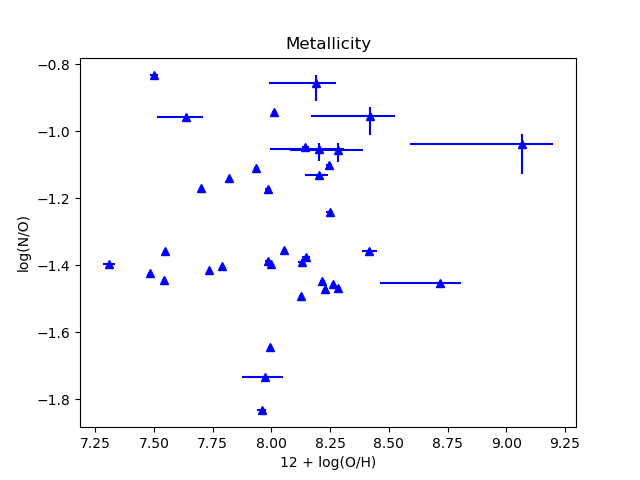
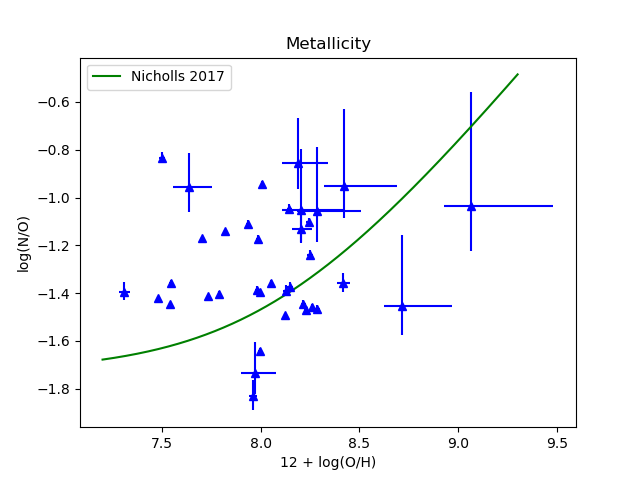
Updated abundance & temp errors, reorganised code into functions, added SFRvM* plot with fit from CLASSY I

diff --git a/CLASSY/Abundances/IonAbundances.py b/CLASSY/Abundances/IonAbundances.py
@@ -8,11 +8,11 @@ def nicholls(metallicity):
     a = -1.732
     b = 2.19
 
-    ratio = np.log10(10 ** a + 10 ** (metallicity - 12 + b))
+    ratio = np.log10(10 ** a + 10 ** (metallicity -12 + b))
     return ratio
 
 def main():
-    filepath = r"C:\Users\drcla\OneDrive\Senior Honours Project\Abundances\Final_CLASSY_EMISSION_LINES_David.xlsx"
+    filepath = r"C:\Users\drcla\OneDrive\Senior Honours Project\CLASSY\Final_CLASSY_EMISSION_LINES_David.xlsx"
 
     O2 = pn.Atom("O", 2)
     O3 = pn.Atom("O", 3)
@@ -99,25 +99,26 @@ def main():
     log_n_o = np.log10(n_o)
 
     #Errors
-    err_filepath = r"C:\Users\drcla\OneDrive\Senior Honours Project\Abundances\Abundanceswerrors.csv"
+    err_filepath = r"C:\Users\drcla\OneDrive\Senior Honours Project\CLASSY\Abundances\Abundanceswerrors.csv"
     metallicity_upper = pd.read_csv(err_filepath, delimiter = ",", usecols = [0], header = 0).to_numpy().flatten()
     metallicity_lower = pd.read_csv(err_filepath, delimiter = ",", usecols = [1], header = 0).to_numpy().flatten()
     abund_ratio_upper = pd.read_csv(err_filepath, delimiter = ",", usecols = [2], header = 0).to_numpy().flatten()
     abund_ratio_lower = pd.read_csv(err_filepath, delimiter = ",", usecols = [3], header = 0).to_numpy().flatten()
 
     #stack
-    met_err = np.stack((metallicity_upper, metallicity_lower), axis = 0)
-    ratio_err = np.stack((abund_ratio_upper, abund_ratio_lower), axis = 0) #N/O
+    met_err = np.stack((metallicity_lower, metallicity_upper), axis = 0)
+    ratio_err = np.stack((abund_ratio_lower, abund_ratio_upper), axis = 0) #N/O
 
     x_nicholls = np.linspace(7.2, 9.3, 1000)
     y_nicholls = nicholls(x_nicholls)
 
     #Plot to compare to classy xii fig 2
     plt.errorbar(metallicity[0:45], log_n_o[0:45], yerr = ratio_err, xerr = met_err, linestyle = "", marker = "^", color = "b")
-    plt.plot(x_nicholls, y_nicholls, color = "green")
+    plt.plot(x_nicholls, y_nicholls, color = "green", label = "Nicholls 2017")
     plt.xlabel("12 + log(O/H)")
     plt.ylabel("log(N/O)")
     plt.title("Metallicity")
+    plt.legend()
     plt.savefig("Metallicity")
     plt.show()
 

diff --git a/CLASSY/Abundances/StellarMassMetallicity.py b/CLASSY/Abundances/StellarMassMetallicity.py
@@ -3,8 +3,8 @@ import numpy as np
 import matplotlib.pyplot as plt
 
 def main():
-    filepathion = r"C:\Users\drcla\OneDrive\Senior Honours Project\Abundances\IonAbundances.csv"
-    filepathmass = r"C:\Users\drcla\OneDrive\Senior Honours Project\Abundances\classy_sample_prop.csv"
+    filepathion = r"C:\Users\drcla\OneDrive\Senior Honours Project\CLASSY\Abundances\IonAbundances.csv"
+    filepathmass = r"C:\Users\drcla\OneDrive\Senior Honours Project\CLASSY\Abundances\classy_sample_prop.csv"
 
     stellar_mass = pd.read_csv(filepathmass, delimiter = ",", usecols = [6], header = 0).to_numpy().flatten()
     metallicity = pd.read_csv(filepathion, delimiter = ",", usecols = [0], header = 0).to_numpy().flatten()
@@ -13,14 +13,14 @@ def main():
     metallicity = metallicity[0:len(stellar_mass)]
 
     #Errors
-    err_filepath = r"C:\Users\drcla\OneDrive\Senior Honours Project\Abundances\Abundanceswerrors.csv"
-    abund_ratio_upper = pd.read_csv(err_filepath, delimiter = ",", usecols = [2], header = 0).to_numpy().flatten()
-    abund_ratio_lower = pd.read_csv(err_filepath, delimiter = ",", usecols = [3], header = 0).to_numpy().flatten()
-    abund_err = np.stack((abund_ratio_upper, abund_ratio_lower), axis = 0) #N/O
+    err_filepath = r"C:\Users\drcla\OneDrive\Senior Honours Project\CLASSY\Abundances\Abundanceswerrors.csv"
+    abund_ratio_upper = pd.read_csv(err_filepath, delimiter = ",", usecols = [0], header = 0).to_numpy().flatten()
+    abund_ratio_lower = pd.read_csv(err_filepath, delimiter = ",", usecols = [1], header = 0).to_numpy().flatten()
+    abund_err = np.stack((abund_ratio_lower, abund_ratio_upper), axis = 0) #12 + log(O/H)
 
     #Plot
     plt.errorbar(stellar_mass, metallicity, yerr = abund_err, ls = "", marker = "s", color = "red")
-    plt.axline(xy1 = (0, 6.4), slope = 0.2, color = "green", label = "12+log(O/H) = 0.2M*+6.4")
+    plt.axline(xy1 = (0, 6.4), slope = 0.2, color = "green", label = "12+log(O/H) = 0.2M*+6.4 \n Berg 2022")
     plt.xlabel(r"$log_{10}$ of total stellar mass in galaxy ($M_{\odot}$)")
     plt.ylabel(r"12 + $log_{10}(O/H)$")
     plt.xlim(5, 11)

diff --git a/CLASSY/Abundances/SFRMetallicity.py b/CLASSY/Abundances/SFRMetallicity.py
@@ -2,10 +2,9 @@ import pandas as pd
 import numpy as np
 import matplotlib.pyplot as plt
 
-def nicholls()
 def main():
-    filepathion = r"C:\Users\drcla\OneDrive\Senior Honours Project\Abundances\IonAbundances.csv"
-    filepathmass = r"C:\Users\drcla\OneDrive\Senior Honours Project\Abundances\classy_sample_prop.csv"
+    filepathion = r"C:\Users\drcla\OneDrive\Senior Honours Project\CLASSY\Abundances\IonAbundances.csv"
+    filepathmass = r"C:\Users\drcla\OneDrive\Senior Honours Project\CLASSY\Abundances\classy_sample_prop.csv"
 
     sfr = pd.read_csv(filepathmass, delimiter = ",", usecols = [7], header = 0).to_numpy().flatten()
     metallicity = pd.read_csv(filepathion, delimiter = ",", usecols = [0], header = 0).to_numpy().flatten()
@@ -14,10 +13,10 @@ def main():
     metallicity = metallicity[0:len(sfr)]
 
     #Errors
-    err_filepath = r"C:\Users\drcla\OneDrive\Senior Honours Project\Abundances\Abundanceswerrors.csv"
-    abund_ratio_upper = pd.read_csv(err_filepath, delimiter = ",", usecols = [2], header = 0).to_numpy().flatten()
-    abund_ratio_lower = pd.read_csv(err_filepath, delimiter = ",", usecols = [3], header = 0).to_numpy().flatten()
-    abund_err = np.stack((abund_ratio_upper, abund_ratio_lower), axis = 0) #N/O
+    err_filepath = r"C:\Users\drcla\OneDrive\Senior Honours Project\CLASSY\Abundances\Abundanceswerrors.csv"
+    abund_ratio_upper = pd.read_csv(err_filepath, delimiter = ",", usecols = [0], header = 0).to_numpy().flatten()
+    abund_ratio_lower = pd.read_csv(err_filepath, delimiter = ",", usecols = [1], header = 0).to_numpy().flatten()
+    abund_err = np.stack((abund_ratio_lower, abund_ratio_upper), axis = 0) #12 + log(O/H)
 
     #Plot
     plt.errorbar(sfr, metallicity, yerr = abund_err, ls = "", marker = "*", color = "green")

diff --git a/CLASSY/Diagnostics/TempDiagnostics.py b/CLASSY/Diagnostics/TempDiagnostics.py
@@ -8,7 +8,7 @@ def extract_and_plot():
       """Extracts necessary emission lines, use getCrossTemDen to calculate T_e in low and high-
       ionisation regions and plot them together, optionally including expanded T_e datasets for galaxies
       without necessary emission lines using Garnett's 1992 formula"""
-      filepath = r"C:\Users\drcla\OneDrive\Senior Honours Project\Diagnostics\Final_CLASSY_EMISSION_LINES_David.xlsx"
+      filepath = r"C:\Users\drcla\OneDrive\Senior Honours Project\CLASSY\Final_CLASSY_EMISSION_LINES_David.xlsx"
 
       O2 = pn.Atom("O", 2)
       O3 = pn.Atom("O", 3)
@@ -64,7 +64,7 @@ def extract_and_plot():
       #Plot galaxy temperature data 
 
       #Errors
-      errpath = r"C:\Users\drcla\OneDrive\Senior Honours Project\Diagnostics\Tempswerrors.csv"
+      errpath = r"C:\Users\drcla\OneDrive\Senior Honours Project\CLASSY\Diagnostics\Tempswerrors.csv"
       Tiii_up = pd.read_csv(errpath, delimiter = ",", usecols = [1], header = 0).to_numpy().flatten()
       Tiii_down = pd.read_csv(errpath, delimiter = ",", usecols = [2], header = 0).to_numpy().flatten()
       Tii_up = pd.read_csv(errpath, delimiter = ",", usecols = [4], header = 0).to_numpy().flatten()
@@ -102,7 +102,7 @@ def extract_and_plot():
 def fit_fcn(a, b, x):
     return a*x + b
 
-def test_garnett():
+def test_garnett(o_iii_T_e, o_ii_T_e):
       o_iii_T_e = np.nan_to_num(o_iii_T_e)
       o_ii_T_e = np.nan_to_num(o_ii_T_e)
 

diff --git a/CLASSY/Abundances/SFRMass.py b/CLASSY/Abundances/SFRMass.py
@@ -1,0 +1,32 @@
+import pandas as pd
+import numpy as np
+import matplotlib.pyplot as plt
+
+def berg(mtot):
+    sfr = 0.91 * mtot - 7.25
+    return sfr
+
+def main():
+
+    filepath = r"C:\Users\drcla\OneDrive\Senior Honours Project\CLASSY\Abundances\classy_sample_prop.csv"
+
+    sfr = pd.read_csv(filepath, delimiter = ",", usecols = [7], header = 0).to_numpy().flatten()
+    stellar_mass = pd.read_csv(filepath, delimiter = ",", usecols = [6], header = 0).to_numpy().flatten()
+
+    #SFR/Mass fitting fcn
+    bergmass = np.linspace(6, 10, 1000)
+    bergsfr = berg(bergmass)
+
+    #Plot
+
+    plt.scatter(stellar_mass, sfr, marker="o", color = "green")
+    plt.plot(bergmass, bergsfr, color = "red", label = "logSFR = 0.91 logM* -7.25 \n (Berg 2022)")
+    plt.xlabel(r"$log_{10}$ of total stellar mass in galaxy ($M_{\odot}$)")
+    plt.ylabel(r"$log_{10}$ of star formation rate in galaxy ($M_{\odot} yr^{-1}$)")
+    plt.title(f"SFR vs. Total Stellar Mass")
+    plt.legend()
+    plt.savefig("SFRvMass.png")
+    plt.show()
+
+if __name__ == "__main__":
+    main()
